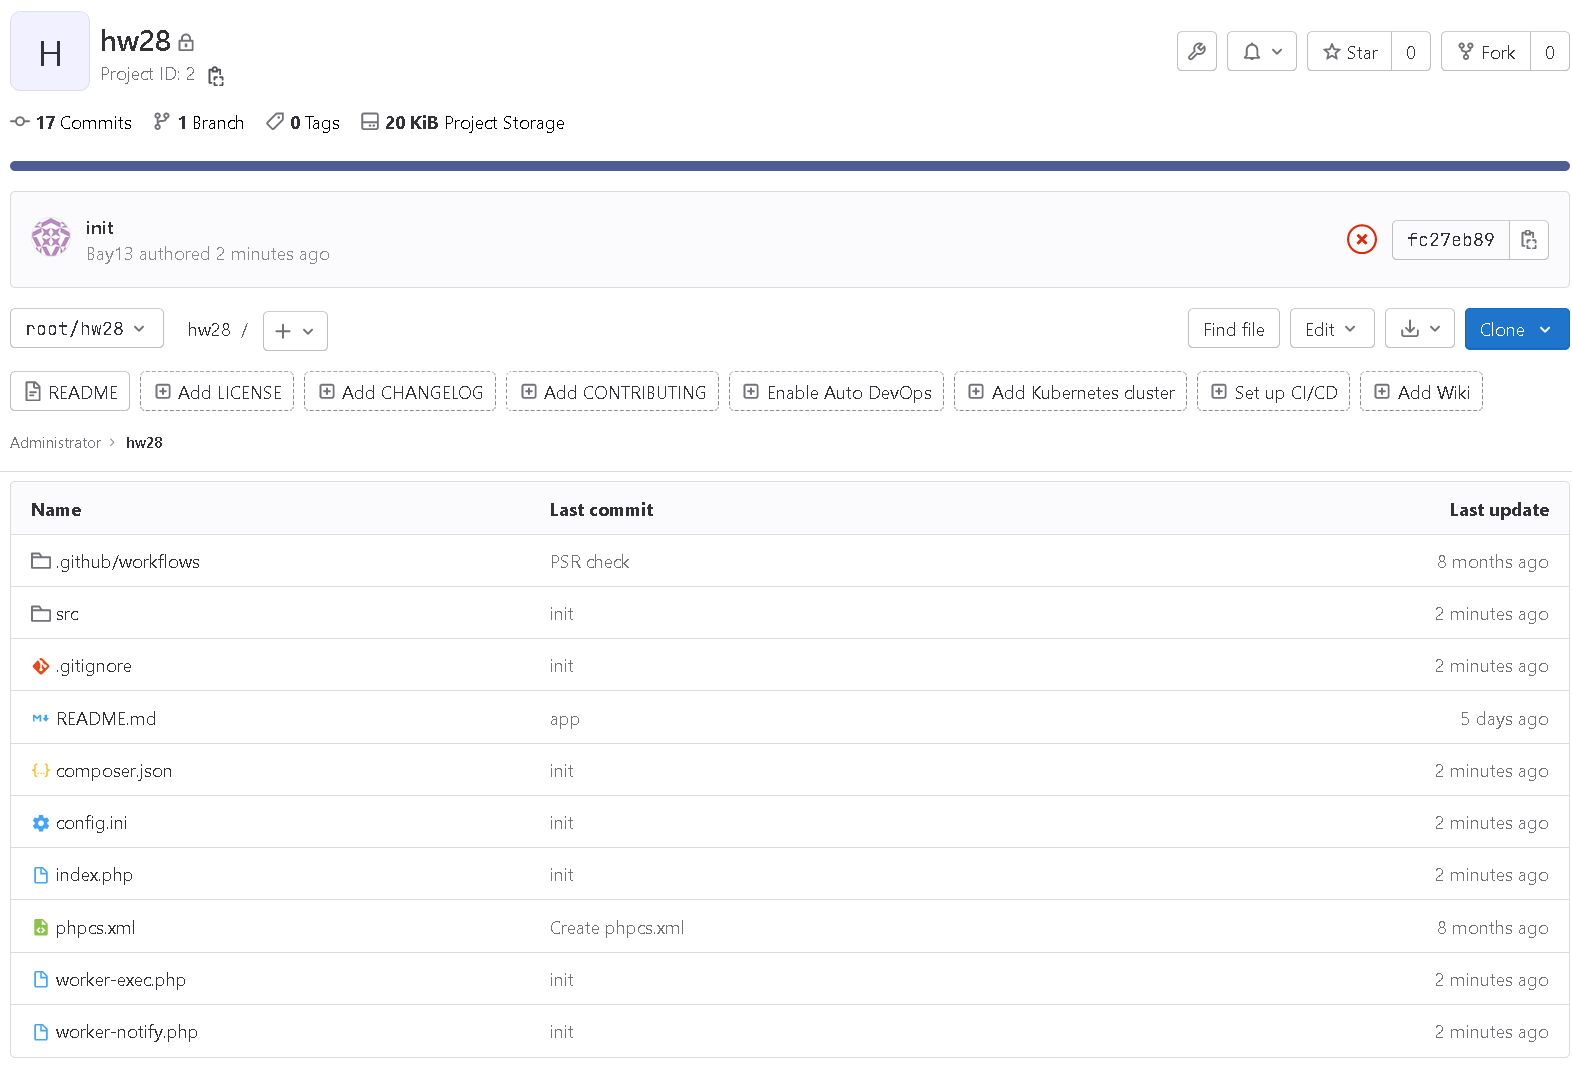
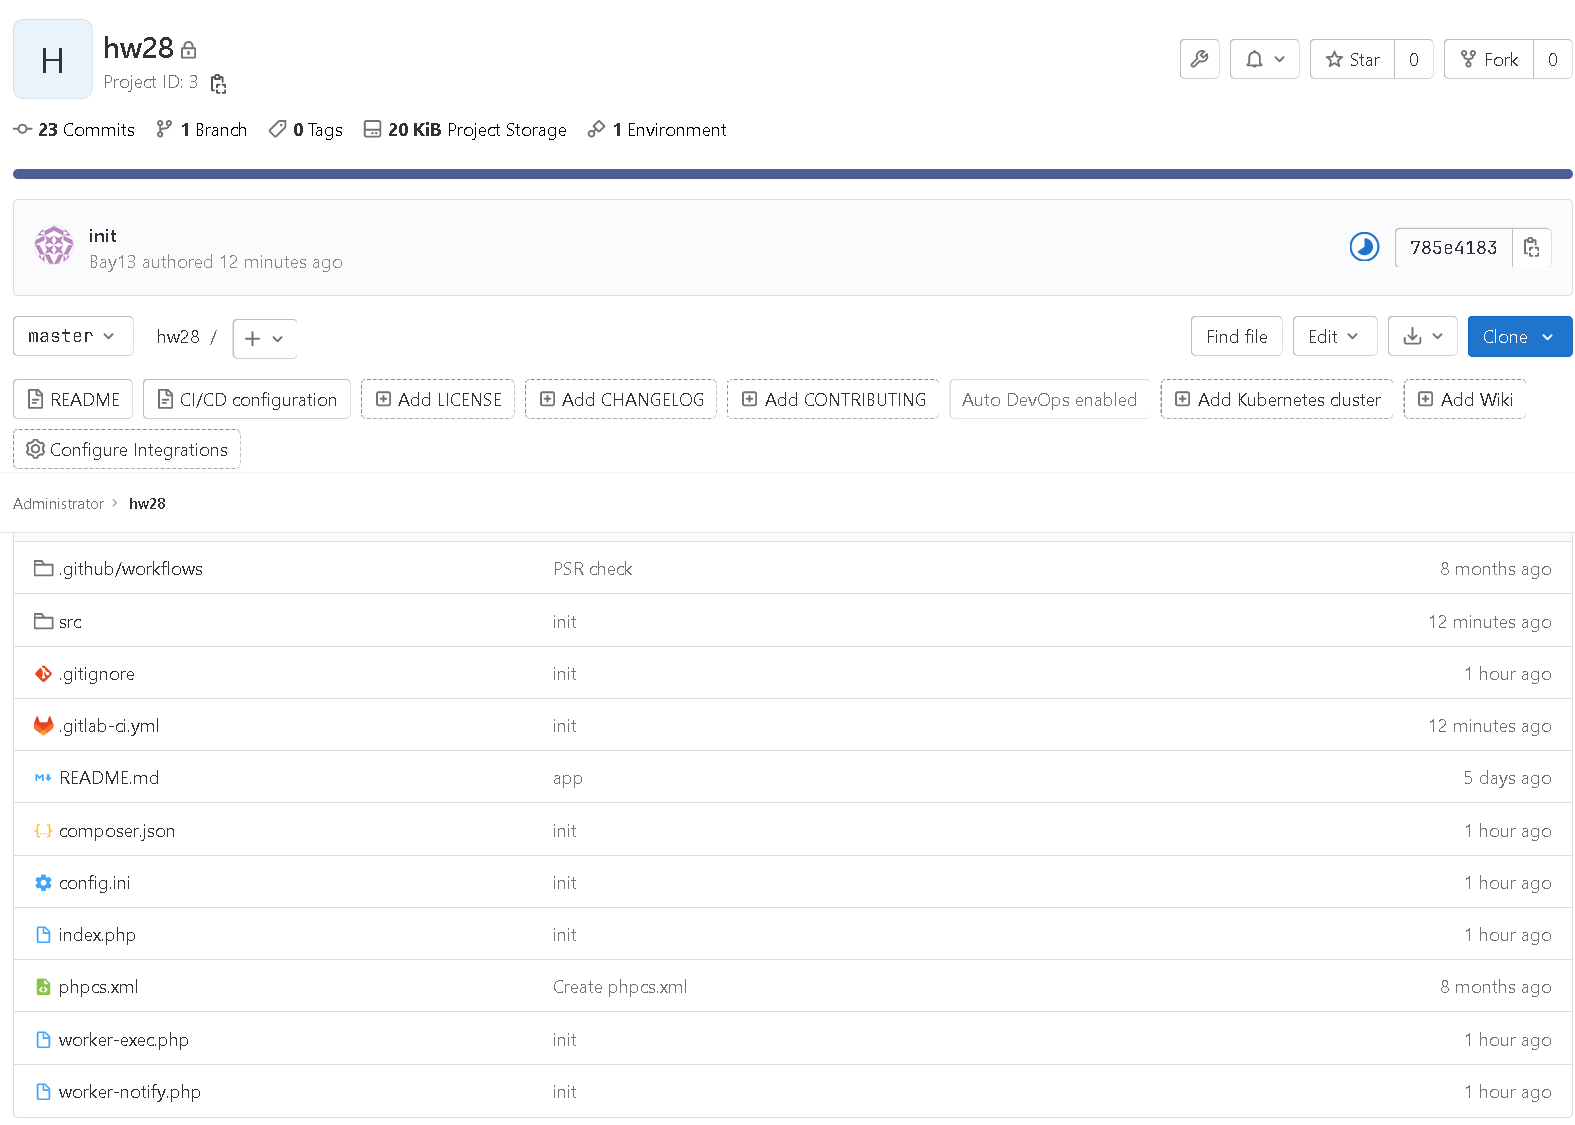
add image

diff --git a/README.md b/README.md
@@ -11,27 +11,29 @@
 1. Запускаем `gitlab` и `gitlab-runner` - `docker-compose up gitlab gitlab-runner`.
 1. После запуска получаем пароль для пользователя `root` - `docker-compose exec gitlab grep 'Password:' /etc/gitlab/initial_root_password`
    В конкретном случае - `NSMvEE3yt3x69a/sPnP3cRYiko0NScHY0HFW6p1Jjfc=`
-1. В интерфейсе `gitlab`, переходим в раздел `Admin Area`->`CI/CD`->`Runners`, выбираем `New Instance runner`
+1. В интерфейсе `gitlab`, переходим в раздел `Admin Area`->`CI/CD`->`Runners`, выбираем `New Instance runner`  
    ![01](./readme/01.jpg)
-1. Создаем новый `runner`. Выбираем Ос - `Linux`. Отмечаем `Run untagged jobs`
+1. Создаем новый `runner`. Выбираем Ос - `Linux`. Отмечаем `Run untagged jobs`  
    ![02](./readme/02.jpg)
-   В результате получаем токен для регистрации, в данном случае `glrt-eKBsfNeLU-aBnkffMZNz`
+   В результате получаем токен для регистрации, в данном случае `glrt-eKBsfNeLU-aBnkffMZNz`  
    ![03](./readme/03.png)
 1. Настраиваем файл `./docker/volumes/gitlab/config/config.template.toml`:
    1. `"/home/user/hw/hw35/deploy:/mnt/deploy:rw"` - указываем полный путь к папке для развертывания.
 1. Регистрируем `runner`: 
    `docker-compose exec gitlab-runner gitlab-runner register --url http://gitlab --token glrt-eKBsfNeLU-aBnkffMZNz --template-config /etc/gitlab-runner/config.template.toml --executor docker --non-interactive`,
    где `-token` - токен полученный ранее
-1. В интерфейсе `gitlab`, переходим в раздел `Admin Area`->`CI/CD`->`Runners`, ранее мозданный `runner` должен быть в статусе `Online`
+1. В интерфейсе `gitlab`, переходим в раздел `Admin Area`->`CI/CD`->`Runners`, ранее мозданный `runner` должен быть в статусе `Online`  
    ![04](./readme/04.png)
 1. В интерфейсе `gitlab`, создем новый репозиторий `hw28` (`http://192.168.56.151/root/hw28.git`), 
    возмем за основу проект [HW28](https://github.com/otusteamedu/PHP_2023/tree/APorivaev/hw28), 
    его отредактированная версия [HW35-app](https://github.com/otusteamedu/PHP_2023/tree/APorivaev/hw35-app).
-1. Скачиваем проект с `github.com`, добавляем к нему репозиторий с `gitlab`
-   ![05](./readme/05.png)
-    и делаем `push` на сервер `gitlab`, Получем:
-   ![06](./readme/06.png)
-   ![07](./readme/07.png)
+1. Скачиваем проект с `github.com`, добавляем к нему репозиторий с `gitlab`  
+   ![05](./readme/05.png)  
+    и делаем `push` на сервер `gitlab`, Получем:  
+   ![06](./readme/06.png)  
+   ![06_2](./readme/06_2.png)  
+   ![07](./readme/07.png)  
+   ![07_2](./readme/07_2.png)  
 1. После успешного завершения `deploy-job` в `./docker/volumes/deploy` должна появиться новая 
    папка и ссылка `current` на нее. 
    ```shell
@@ -48,5 +50,16 @@
           - ./docker/volumes/deploy/current:/var/www/app
    ```
 1. Запускаем `php`, `nginx` и `rabbitmq` - `docker-compose up php nginx rabbitmq`.
-1. Проверяем работу приложения:
+1. Проверяем работу приложения:  
    ![08](./readme/08.png)
+1. Вносим изменения в приложение, например в файл `src/GetBankStatementCommand.php`, в строке 26:
+   ```php
+   Response::echo(true, 'Ожидайте уведомления', ['debugMessage' => 'deploy success']);
+   ```
+   ![09](./readme/09.png)
+1. После успешного выполнения `pipeline`  
+   ![10](./readme/10.png)  
+   Проверяем работу приложения  
+   ![11](./readme/11.png)
+1. Выполнилось успешно.
+2. 
